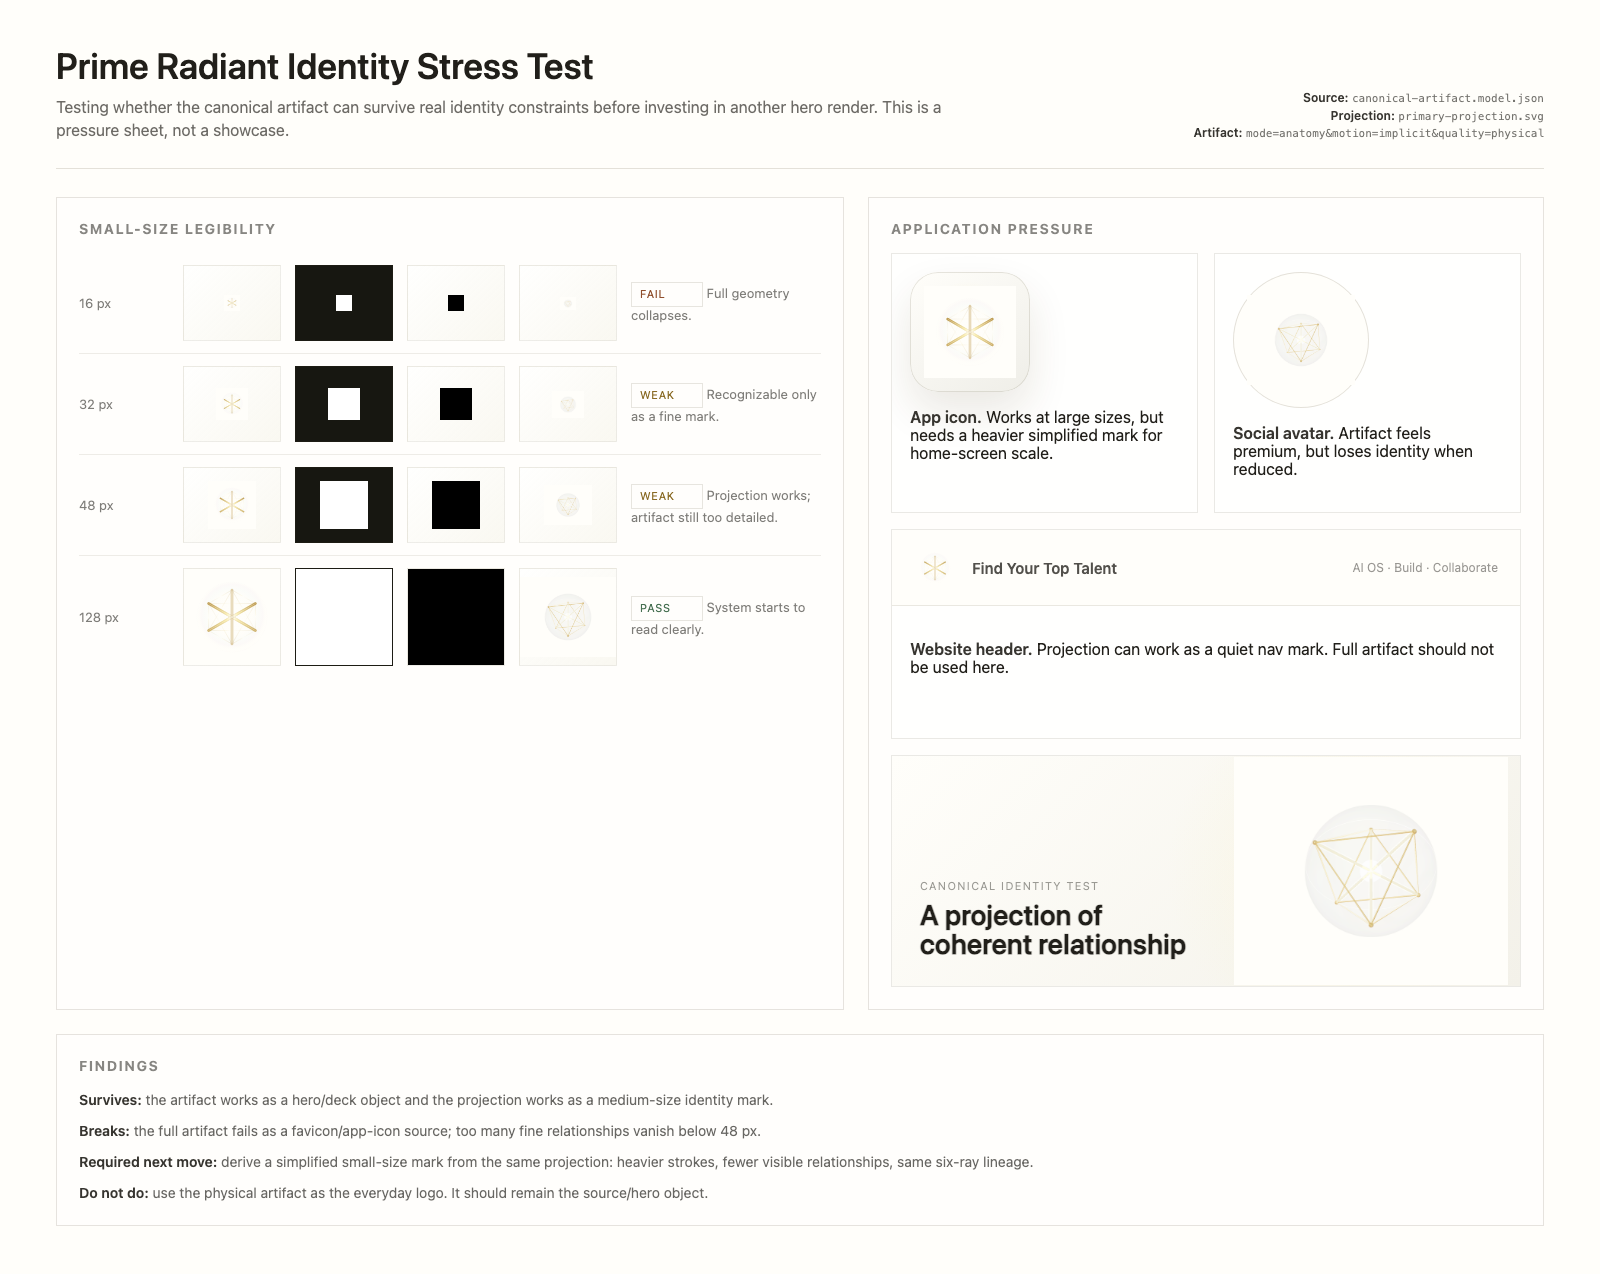
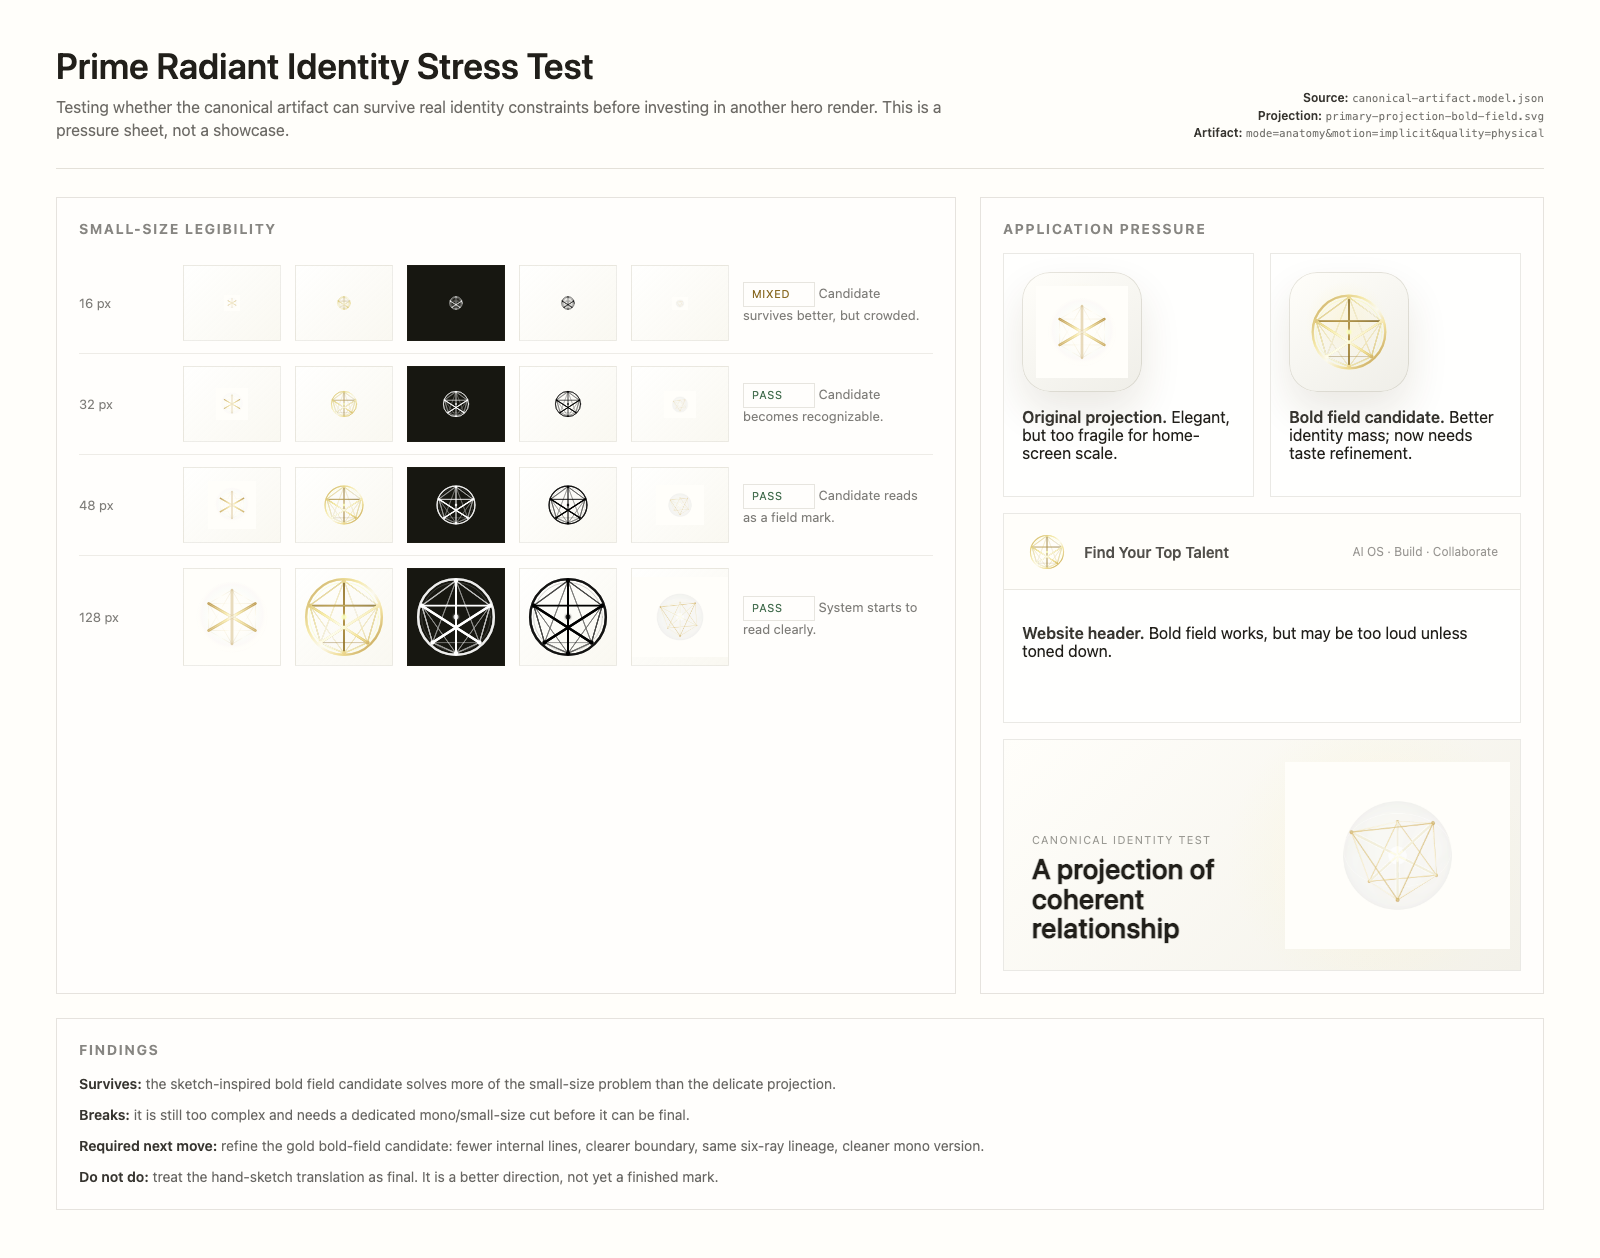
deploy

diff --git a/docs/assets/canonical-artifact/identity_stress_test.html b/docs/assets/canonical-artifact/identity_stress_test.html
@@ -90,7 +90,7 @@
 
       .icon-row {
         display: grid;
-        grid-template-columns: 90px repeat(4, 1fr) 190px;
+        grid-template-columns: 90px repeat(5, 1fr) 190px;
         gap: 14px;
         align-items: center;
         padding: 12px 0;
@@ -306,7 +306,7 @@
         </div>
         <div class="meta">
           <div><strong>Source:</strong> <code>canonical-artifact.model.json</code></div>
-          <div><strong>Projection:</strong> <code>primary-projection.svg</code></div>
+          <div><strong>Projection:</strong> <code>primary-projection-bold-field.svg</code></div>
           <div><strong>Artifact:</strong> <code>mode=anatomy&motion=implicit&quality=physical</code></div>
         </div>
       </header>
@@ -317,32 +317,36 @@
           <div class="icon-row">
             <div class="size-label">16 px</div>
             <div class="sample"><img style="--size: 16px" src="./projections/primary-projection.svg" alt="" /></div>
-            <div class="sample dark"><img class="mono-white" style="--size: 16px" src="./projections/primary-projection.svg" alt="" /></div>
-            <div class="sample"><img class="mono-black" style="--size: 16px" src="./projections/primary-projection.svg" alt="" /></div>
+            <div class="sample"><img style="--size: 16px" src="./projections/primary-projection-bold-field.svg" alt="" /></div>
+            <div class="sample dark"><img class="mono-white" style="--size: 16px" src="./projections/primary-projection-bold-field.svg" alt="" /></div>
+            <div class="sample"><img class="mono-black" style="--size: 16px" src="./projections/primary-projection-bold-field.svg" alt="" /></div>
             <div class="sample"><img style="--size: 16px" src="./renders/canonical-artifact-three-v4-physical-desktop.png" alt="" /></div>
-            <div class="score"><span class="status fail">Fail</span> Full geometry collapses.</div>
+            <div class="score"><span class="status mixed">Mixed</span> Candidate survives better, but crowded.</div>
           </div>
           <div class="icon-row">
             <div class="size-label">32 px</div>
             <div class="sample"><img style="--size: 32px" src="./projections/primary-projection.svg" alt="" /></div>
-            <div class="sample dark"><img class="mono-white" style="--size: 32px" src="./projections/primary-projection.svg" alt="" /></div>
-            <div class="sample"><img class="mono-black" style="--size: 32px" src="./projections/primary-projection.svg" alt="" /></div>
+            <div class="sample"><img style="--size: 32px" src="./projections/primary-projection-bold-field.svg" alt="" /></div>
+            <div class="sample dark"><img class="mono-white" style="--size: 32px" src="./projections/primary-projection-bold-field.svg" alt="" /></div>
+            <div class="sample"><img class="mono-black" style="--size: 32px" src="./projections/primary-projection-bold-field.svg" alt="" /></div>
             <div class="sample"><img style="--size: 32px" src="./renders/canonical-artifact-three-v4-physical-desktop.png" alt="" /></div>
-            <div class="score"><span class="status mixed">Weak</span> Recognizable only as a fine mark.</div>
+            <div class="score"><span class="status pass">Pass</span> Candidate becomes recognizable.</div>
           </div>
           <div class="icon-row">
             <div class="size-label">48 px</div>
             <div class="sample"><img style="--size: 48px" src="./projections/primary-projection.svg" alt="" /></div>
-            <div class="sample dark"><img class="mono-white" style="--size: 48px" src="./projections/primary-projection.svg" alt="" /></div>
-            <div class="sample"><img class="mono-black" style="--size: 48px" src="./projections/primary-projection.svg" alt="" /></div>
+            <div class="sample"><img style="--size: 48px" src="./projections/primary-projection-bold-field.svg" alt="" /></div>
+            <div class="sample dark"><img class="mono-white" style="--size: 48px" src="./projections/primary-projection-bold-field.svg" alt="" /></div>
+            <div class="sample"><img class="mono-black" style="--size: 48px" src="./projections/primary-projection-bold-field.svg" alt="" /></div>
             <div class="sample"><img style="--size: 48px" src="./renders/canonical-artifact-three-v4-physical-desktop.png" alt="" /></div>
-            <div class="score"><span class="status mixed">Weak</span> Projection works; artifact still too detailed.</div>
+            <div class="score"><span class="status pass">Pass</span> Candidate reads as a field mark.</div>
           </div>
           <div class="icon-row">
             <div class="size-label">128 px</div>
             <div class="sample"><img style="--size: 96px" src="./projections/primary-projection.svg" alt="" /></div>
-            <div class="sample dark"><img class="mono-white" style="--size: 96px" src="./projections/primary-projection.svg" alt="" /></div>
-            <div class="sample"><img class="mono-black" style="--size: 96px" src="./projections/primary-projection.svg" alt="" /></div>
+            <div class="sample"><img style="--size: 96px" src="./projections/primary-projection-bold-field.svg" alt="" /></div>
+            <div class="sample dark"><img class="mono-white" style="--size: 96px" src="./projections/primary-projection-bold-field.svg" alt="" /></div>
+            <div class="sample"><img class="mono-black" style="--size: 96px" src="./projections/primary-projection-bold-field.svg" alt="" /></div>
             <div class="sample"><img style="--size: 96px" src="./renders/canonical-artifact-three-v4-physical-desktop.png" alt="" /></div>
             <div class="score"><span class="status pass">Pass</span> System starts to read clearly.</div>
           </div>
@@ -356,25 +360,25 @@
                 <div class="app-icon">
                   <img src="./projections/primary-projection.svg" alt="App icon test" />
                 </div>
-                <p><strong>App icon.</strong> Works at large sizes, but needs a heavier simplified mark for home-screen scale.</p>
+                <p><strong>Original projection.</strong> Elegant, but too fragile for home-screen scale.</p>
               </div>
             </div>
             <div class="mock">
               <div class="mock-inner">
-                <div class="avatar">
-                  <img src="./renders/canonical-artifact-three-v4-physical-desktop.png" alt="Avatar test" />
+                <div class="app-icon">
+                  <img src="./projections/primary-projection-bold-field.svg" alt="Bold field app icon test" />
                 </div>
-                <p><strong>Social avatar.</strong> Artifact feels premium, but loses identity when reduced.</p>
+                <p><strong>Bold field candidate.</strong> Better identity mass; now needs taste refinement.</p>
               </div>
             </div>
             <div class="mock" style="grid-column: 1 / -1">
               <div class="header-mock">
-                <img src="./projections/primary-projection.svg" alt="Header mark" />
+                <img src="./projections/primary-projection-bold-field.svg" alt="Header mark" />
                 <div class="wordmark">Find Your Top Talent</div>
                 <div class="nav">AI OS · Build · Collaborate</div>
               </div>
               <div class="mock-inner">
-                <p><strong>Website header.</strong> Projection can work as a quiet nav mark. Full artifact should not be used here.</p>
+                <p><strong>Website header.</strong> Bold field works, but may be too loud unless toned down.</p>
               </div>
             </div>
             <div class="mock" style="grid-column: 1 / -1">
@@ -394,10 +398,10 @@
         <article class="panel" style="grid-column: 1 / -1">
           <h2>Findings</h2>
           <div class="notes">
-            <div><strong>Survives:</strong> the artifact works as a hero/deck object and the projection works as a medium-size identity mark.</div>
-            <div><strong>Breaks:</strong> the full artifact fails as a favicon/app-icon source; too many fine relationships vanish below 48 px.</div>
-            <div><strong>Required next move:</strong> derive a simplified small-size mark from the same projection: heavier strokes, fewer visible relationships, same six-ray lineage.</div>
-            <div><strong>Do not do:</strong> use the physical artifact as the everyday logo. It should remain the source/hero object.</div>
+            <div><strong>Survives:</strong> the sketch-inspired bold field candidate solves more of the small-size problem than the delicate projection.</div>
+            <div><strong>Breaks:</strong> it is still too complex and needs a dedicated mono/small-size cut before it can be final.</div>
+            <div><strong>Required next move:</strong> refine the gold bold-field candidate: fewer internal lines, clearer boundary, same six-ray lineage, cleaner mono version.</div>
+            <div><strong>Do not do:</strong> treat the hand-sketch translation as final. It is a better direction, not yet a finished mark.</div>
           </div>
         </article>
       </section>

diff --git a/docs/assets/canonical-artifact/identity_derivation_notes.md b/docs/assets/canonical-artifact/identity_derivation_notes.md
@@ -1,0 +1,91 @@
+# Prime Radiant Identity Derivation Notes
+
+Date: 2026-07-06.
+
+## Trigger
+
+Sasha supplied a hand sketch that reframed the 2D logo as a bold field-lattice mark: boundary circle, thick bio-light beams, and visible relational construction.
+
+Source sketch:
+
+`/Users/alexanderkonst/Documents/Screenshots/Screenshot 2026-07-06 at 4.32.01 PM.png`
+
+## Interpretation
+
+The 2D logo may not be the delicate six-ray projection alone.
+
+It may be a bolder field projection:
+
+- enclosing boundary is first-class,
+- relationship beams have real weight,
+- the mark reads as a coherence diagram / sigil,
+- bio-light may be more appropriate than prestige gold for the 2D identity layer.
+
+## Candidate Created
+
+| Asset | Role | Status |
+|---|---|---|
+| `docs/assets/canonical-artifact/projections/primary-projection-bold-field.svg` | Bold field projection candidate | Candidate v1.1, gold palette |
+| `docs/assets/canonical-artifact/projections/primary-projection-bold-field.svg.png` | Raster preview | Candidate preview |
+
+## Stress-Test Result
+
+Updated stress test:
+
+| Asset | Role |
+|---|---|
+| `docs/assets/canonical-artifact/identity_stress_test.html` | Stress-test sheet |
+| `docs/assets/canonical-artifact/renders/canonical-artifact-identity-stress-test.png` | Captured stress-test sheet |
+| `docs/assets/canonical-artifact/renders/identity_stress_test_capture_report.md` | Capture report |
+
+Finding:
+
+- The bold field candidate solves more of the small-size problem than the delicate projection.
+- It is recognizable at 32 px and strong at 48/128 px.
+- Sasha corrected the palette: this should be gold-like and aligned with the artifact family, not acid bio-light.
+- The gold revision reduces hazard-symbol energy, but still needs simplification and a dedicated mono version.
+
+## Required Refinement
+
+Next candidate should preserve:
+
+- boundary circle,
+- six-ray lineage,
+- bolder beams,
+- bio-light identity mass,
+- source relationship to the canonical artifact.
+
+Next candidate should reduce:
+
+- remaining dark structural mass,
+- warning-sign energy,
+- excessive internal line complexity,
+- dependence on glow for legibility.
+
+## Phase 4 DoD Status
+
+| # | Item | Evidence | Status |
+|---|---|---|---|
+| 1 | Primary projection rule exists | Existing `[1, 1, 1]` projection remains canonical source rule | Pass |
+| 2 | Simplified mark rule exists | Bold field candidate establishes heavier-stroke / boundary-field direction | Partial |
+| 3 | Icon crop rules exist | Stress test shows candidate works in app/header crops but needs refinement | Partial |
+| 4 | Motion behavior rule exists | Motion v3 Implicit remains baseline; unchanged by this pass | Pass |
+| 5 | Field background rule exists | Boundary circle is now a first-class 2D identity element candidate | Partial |
+| 6 | Forbidden uses are documented | Hazard-symbol / too-dark drift added here | Pass |
+| 7 | Source-to-output map exists | Still pending a formal derivation diagram | Pending |
+
+## T4 Self-Check
+
+What this revealed:
+
+- Sasha's sketch is not a distraction. It exposes the missing bridge between canonical artifact and usable identity mark.
+- The old projection is too refined for small identity contexts.
+- The bold field direction is better for legibility, and the gold palette is the correct color family.
+
+SOW revision needed:
+
+- Phase 4 should not aim for one finished mark immediately. It should produce candidate iterations until the bold field direction passes small-size and taste checks.
+
+Next irreversible action:
+
+- Produce a cleaner v2 bold-field mark with less remaining dark mass, clearer mono behavior, and fewer internal lines while preserving the boundary, gold-like palette, and six-ray lineage.

diff --git a/docs/assets/canonical-artifact/renders/identity_stress_test_capture_report.md b/docs/assets/canonical-artifact/renders/identity_stress_test_capture_report.md
@@ -1,6 +1,6 @@
 # Identity Stress Test Capture
 
-Generated: 2026-07-04T06:56:43.853Z
+Generated: 2026-07-06T23:32:55.322Z
 
 URL: http://127.0.0.1:5177/docs/assets/canonical-artifact/identity_stress_test.html
 
@@ -8,7 +8,7 @@ URL: http://127.0.0.1:5177/docs/assets/canonical-artifact/identity_stress_test.h
 |---|---|
 | Screenshot | `docs/assets/canonical-artifact/renders/canonical-artifact-identity-stress-test.png` |
 | Viewport | 1600x1180 |
-| Images | 20 |
+| Images | 24 |
 | Image load status | pass |
 | Console | clean |
 
@@ -16,41 +16,45 @@ URL: http://127.0.0.1:5177/docs/assets/canonical-artifact/identity_stress_test.h
 
 | Test | Result | Note |
 |---|---|---|
-| 16 px favicon | Fail | Full geometry collapses; needs simplified mark. |
-| 32 px favicon | Weak | Projection is barely recognizable; physical artifact is too detailed. |
-| 48 px favicon | Weak | Projection begins to work, but not enough for final identity. |
+| 16 px favicon | Mixed | Bold field candidate survives better than the delicate projection, but remains crowded. |
+| 32 px favicon | Pass with refinement | Bold field candidate becomes recognizable. |
+| 48 px favicon | Pass with refinement | Bold field candidate reads as a field mark. |
 | 128 px icon | Pass | Projection and artifact both start reading. |
-| App icon | Weak | Needs heavier small-size derivative. |
-| Social avatar | Mixed | Physical artifact is attractive but not enough as an identity mark. |
-| Website header | Pass | Projection can work as a quiet mark beside wordmark. |
+| App icon | Mixed | Original projection is too fragile; bold field has better mass but needs taste refinement. |
+| Social avatar | Deferred | Physical artifact remains a hero/source object, not everyday avatar. |
+| Website header | Mixed | Bold field works, but may be too loud unless toned down. |
 | Deck cover | Pass | Physical artifact works as hero object. |
-| Monochrome | Mixed | Projection can reduce; line weights need a dedicated mono asset. |
+| Monochrome | Mixed | Bold candidate needs a dedicated mono version rather than CSS filter. |
 
 ## Image Audit
 
 | Source | Natural Size | Rendered Size | Status |
 |---|---:|---:|---|
 | `./projections/primary-projection.svg` | 720x720 | 16x16 | Pass |
-| `./projections/primary-projection.svg` | 720x720 | 16x16 | Pass |
-| `./projections/primary-projection.svg` | 720x720 | 16x16 | Pass |
+| `./projections/primary-projection-bold-field.svg` | 720x720 | 16x16 | Pass |
+| `./projections/primary-projection-bold-field.svg` | 720x720 | 16x16 | Pass |
+| `./projections/primary-projection-bold-field.svg` | 720x720 | 16x16 | Pass |
 | `./renders/canonical-artifact-three-v4-physical-desktop.png` | 1440x1200 | 16x16 | Pass |
 | `./projections/primary-projection.svg` | 720x720 | 32x32 | Pass |
-| `./projections/primary-projection.svg` | 720x720 | 32x32 | Pass |
-| `./projections/primary-projection.svg` | 720x720 | 32x32 | Pass |
+| `./projections/primary-projection-bold-field.svg` | 720x720 | 32x32 | Pass |
+| `./projections/primary-projection-bold-field.svg` | 720x720 | 32x32 | Pass |
+| `./projections/primary-projection-bold-field.svg` | 720x720 | 32x32 | Pass |
 | `./renders/canonical-artifact-three-v4-physical-desktop.png` | 1440x1200 | 32x32 | Pass |
 | `./projections/primary-projection.svg` | 720x720 | 48x48 | Pass |
-| `./projections/primary-projection.svg` | 720x720 | 48x48 | Pass |
-| `./projections/primary-projection.svg` | 720x720 | 48x48 | Pass |
+| `./projections/primary-projection-bold-field.svg` | 720x720 | 48x48 | Pass |
+| `./projections/primary-projection-bold-field.svg` | 720x720 | 48x48 | Pass |
+| `./projections/primary-projection-bold-field.svg` | 720x720 | 48x48 | Pass |
 | `./renders/canonical-artifact-three-v4-physical-desktop.png` | 1440x1200 | 48x48 | Pass |
 | `./projections/primary-projection.svg` | 720x720 | 96x96 | Pass |
-| `./projections/primary-projection.svg` | 720x720 | 96x96 | Pass |
-| `./projections/primary-projection.svg` | 720x720 | 96x96 | Pass |
+| `./projections/primary-projection-bold-field.svg` | 720x720 | 96x96 | Pass |
+| `./projections/primary-projection-bold-field.svg` | 720x720 | 96x96 | Pass |
+| `./projections/primary-projection-bold-field.svg` | 720x720 | 96x96 | Pass |
 | `./renders/canonical-artifact-three-v4-physical-desktop.png` | 1440x1200 | 96x96 | Pass |
 | `./projections/primary-projection.svg` | 720x720 | 92x92 | Pass |
-| `./renders/canonical-artifact-three-v4-physical-desktop.png` | 1440x1200 | 108x108 | Pass |
-| `./projections/primary-projection.svg` | 720x720 | 42x42 | Pass |
-| `./renders/canonical-artifact-three-v4-physical-desktop.png` | 1440x1200 | 274x228 | Pass |
+| `./projections/primary-projection-bold-field.svg` | 720x720 | 92x92 | Pass |
+| `./projections/primary-projection-bold-field.svg` | 720x720 | 42x42 | Pass |
+| `./renders/canonical-artifact-three-v4-physical-desktop.png` | 1440x1200 | 225x187 | Pass |
 
 ## Required Next Move
 
-Derive a simplified small-size mark from the canonical projection: heavier strokes, fewer visible relationships, same six-ray lineage. The full physical artifact should remain the hero/source object, not the everyday logo.
+Refine the sketch-inspired bold field candidate: less black mass, clearer boundary, same six-ray lineage, cleaner mono version. The full physical artifact should remain the hero/source object, not the everyday logo.

diff --git a/docs/05-specs/artifact_identity_10x_sow.md b/docs/05-specs/artifact_identity_10x_sow.md
@@ -6,7 +6,7 @@ Next-phase scope of work for turning the Prime Radiant canonical artifact from a
 
 This SOW does not replace `canonical_artifact_sow.md`. That document protects the source artifact. This document puts the artifact under real-world identity pressure.
 
-Current phase: Phase 3 Identity Stress Test is complete. Evidence: `docs/assets/canonical-artifact/renders/identity_stress_test_capture_report.md`.
+Current phase: Phase 4 Derivation System is in progress. Evidence: `docs/assets/canonical-artifact/identity_derivation_notes.md`.
 
 ## Core Diagnosis
 
@@ -252,6 +252,36 @@ Open decisions:
 Next irreversible action:
 
 - Derive a simplified mark from the canonical projection: heavier strokes, fewer visible relationships, same six-ray lineage.
+
+### T4: After Bold Field Candidate v1
+
+Date: 2026-07-06.
+
+What the derivation pass revealed:
+
+- Sasha's sketch is likely the missing bridge between the 3D artifact and a usable 2D identity mark.
+- The 2D mark wants a first-class boundary circle and stronger bio-light beams.
+- The bold field candidate improves small-size recognition over the delicate projection.
+- Sasha corrected the palette: the mark must remain gold-like and aligned with the artifact family, not acid bio-light.
+- The current vector pass is not finished; it needs simplification and a dedicated mono/small-size cut.
+
+Revision made:
+
+- Added `primary-projection-bold-field.svg`.
+- Generated `primary-projection-bold-field.svg.png`.
+- Revised the candidate into the same gold-like palette as the artifact family.
+- Updated `identity_stress_test.html` to compare delicate projection vs bold field candidate.
+- Regenerated `canonical-artifact-identity-stress-test.png`.
+- Updated `identity_stress_test_capture_report.md`.
+- Added `identity_derivation_notes.md`.
+
+Open decisions:
+
+- None blocking the next pass.
+
+Next irreversible action:
+
+- Produce a cleaner v2 bold-field mark: fewer internal lines, clearer boundary, stronger mono behavior, same gold-like palette and six-ray lineage.
 
 ## Open Decision Standard
 

diff --git a/docs/assets/canonical-artifact/debug_report.md b/docs/assets/canonical-artifact/debug_report.md
@@ -12,6 +12,8 @@ Date: 2026-07-03.
 | Canonical still preview | `docs/assets/canonical-artifact/renders/canonical-artifact-render.svg.png` | Pass |
 | Primary projection | `docs/assets/canonical-artifact/projections/primary-projection.svg` | Pass |
 | Primary projection preview | `docs/assets/canonical-artifact/projections/primary-projection.svg.png` | Pass |
+| Bold field projection candidate | `docs/assets/canonical-artifact/projections/primary-projection-bold-field.svg` | Candidate |
+| Bold field projection preview | `docs/assets/canonical-artifact/projections/primary-projection-bold-field.svg.png` | Candidate |
 | Three.js viewer | `docs/assets/canonical-artifact/viewer.html` | Pass |
 | Review plate HTML | `docs/assets/canonical-artifact/review_plate.html` | Pass |
 | Review plate PNG | `docs/assets/canonical-artifact/renders/canonical-artifact-review-plate.png` | Pass |
@@ -127,6 +129,17 @@ Date: 2026-07-03.
 | Failure cases are recorded | Capture report names 16 px failure, 32/48 px weakness, and need for simplified mark | Pass |
 | Image loading and console health | Capture report records 20 loaded images and clean console | Pass |
 
+## Bold Field Candidate Audit
+
+| Check | Evidence | Status |
+|---|---|---|
+| Candidate derives from sketch insight | `identity_derivation_notes.md` records Sasha sketch trigger and interpretation | Pass |
+| Boundary field is first-class | `primary-projection-bold-field.svg` includes explicit enclosing circle | Pass |
+| Small-size legibility improves | Updated stress test shows candidate recognizable at 32 px and strong at 48/128 px | Pass with limitation |
+| Six-ray lineage remains | Candidate preserves vertical, horizontal, and diagonal beam structure through center | Pass |
+| Gold-like palette restored | Candidate uses artifact-family gold palette after Sasha correction | Pass |
+| Not final identity mark | Current pass still needs simplification and a dedicated mono/small-size cut | Pass with limitation |
+
 ## Motion v1 Audit
 
 | Check | Evidence | Status |
@@ -167,9 +180,10 @@ Date: 2026-07-03.
 1. The SVG implementation is exact and audit-friendly; the Three.js render is more material-rich but still not a final Blender/Cycles-grade photograph.
 2. v4 improves physical believability with environment lighting, anisotropy, iridescence, transmission, and dispersion, but remains a real-time browser approximation.
 3. Motion v3 reduces explicit path-work and makes circulation more implicit, but the field shader remains a real-time approximation rather than physically simulated refraction.
-4. The identity stress test shows the projection works at medium sizes but fails or weakens below 48 px; a dedicated simplified mark is required.
-5. The privileged viewpoint is operationalized as `[1, 1, 1]`; Sasha may later tune this from lived visual memory.
+4. The identity stress test shows the delicate projection works at medium sizes but weakens below 48 px.
+5. The bold field candidate improves small-size legibility and now uses the correct gold-like palette, but must be simplified for mono/small-size use.
+6. The privileged viewpoint is operationalized as `[1, 1, 1]`; Sasha may later tune this from lived visual memory.
 
 ## Debug Conclusion
 
-The first execution target is complete and the renderer now has eight layers: v2 artifact/material render, v3 Anatomy Mode, v4 Physical Quality, Motion v1, Motion v2 Metabolic, Motion v3 Implicit, Review Plate v1, and Identity Stress Test v1. All derive from the same procedural geometry. The next quality leap is a simplified small-size mark derived from the canonical projection.
+The first execution target is complete and the renderer now has nine layers: v2 artifact/material render, v3 Anatomy Mode, v4 Physical Quality, Motion v1, Motion v2 Metabolic, Motion v3 Implicit, Review Plate v1, Identity Stress Test v1, and Gold Bold Field Candidate v1.1. All derive from the same procedural geometry or Sasha's sketch insight. The next quality leap is a cleaner v2 bold-field mark with fewer internal lines and better mono behavior.